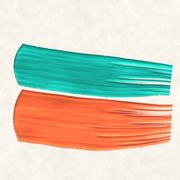
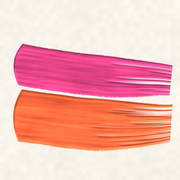
Switch the hero to the Painted-reference colourway
Gold #e8af1e, magenta #d6417e, orange #f2643c, tan #d6a374, burgundy
#7e2437 - the swatch mix from the reference, keeping the Algarve warmth
while the magenta and burgundy break the brown impression. Section marks,
the CTA-band watermark and the favicon regenerate from the same five, so
page and hero stay in family. Stroke geometry is unchanged; this is colour
only. 'reference' is now the generator's default, so a bare run reproduces
what ships.

The veil over the hero text needed reworking for it. This palette is darker
than the previous one - magenta and burgundy against a light canvas - and
the old percentage-based stops failed the script tagline at 1025px (2.69:1).
Percentage stops cannot serve both ends of the range: the hero text column
is a fixed 780px, so a veil that clears the strokes at 1920px still sits
under the text at 1025px where that column fills 76% of the screen. Plain px
stops measured from the viewport edge then failed the opposite way on
ultra-wide, because the column is centred inside a 1180px max-width
container rather than pinned left.

The stops are now anchored to the container's own left edge via
--hero-veil-left: max(24px, calc(50% - 590px)), so the veil tracks the text
wherever it actually is, and it is tuned to hug the column and clear within
~180px of it rather than smothering the strokes - the first attempt at this
measured 11:1 everywhere but washed the paint out, which defeats the point.
[…]

Changed region(s): [[0.0556, 0.2222, 0.9722, 0.5556]]

diff --git a/public/assets/css/main.css b/public/assets/css/main.css
@@ -4140,13 +4140,23 @@ a.card:hover { box-shadow: 0 14px 34px rgba(15, 50, 56, 0.12); }
 .page-lagos-rs .hero-stack--split .hero-stack-media::before,
 .page-home .hero-stack--split .hero-stack-media::after,
 .page-lagos-rs .hero-stack--split .hero-stack-media::after {
+  /* Stops are anchored to the text column, not to the viewport. A
+     percentage veil that clears the text at 1920px still sits under it at
+     1025px, where the same fixed-width column fills 76% of the screen; and
+     plain px stops measured from the viewport's left edge drift out from
+     under the text on ultra-wide, because the column is centred inside a
+     1180px max-width container rather than pinned left. --hero-veil-left
+     resolves to that container's own left edge at every width (the
+     max() picks up the gutter below 1180px + padding), so the veil tracks
+     the text wherever it actually is. */
+  --hero-veil-left: max(24px, calc(50% - 590px));
   background: linear-gradient(100deg,
-    rgba(248, 243, 234, 0.97) 0%,
-    rgba(248, 243, 234, 0.95) 34%,
-    rgba(248, 243, 234, 0.78) 47%,
-    rgba(248, 243, 234, 0.30) 59%,
-    rgba(248, 243, 234, 0.05) 70%,
-    rgba(248, 243, 234, 0) 80%) !important;
+    rgba(248, 243, 234, 0.97) 0px,
+    rgba(248, 243, 234, 0.95) calc(var(--hero-veil-left) + 560px),
+    rgba(248, 243, 234, 0.86) calc(var(--hero-veil-left) + 760px),
+    rgba(248, 243, 234, 0.35) calc(var(--hero-veil-left) + 880px),
+    rgba(248, 243, 234, 0.05) calc(var(--hero-veil-left) + 980px),
+    rgba(248, 243, 234, 0) calc(var(--hero-veil-left) + 1060px)) !important;
 }
 @media (max-width: 1024px) {
   /* Mobile and tablet stack text above the strokes, so the veil runs

diff --git a/src/assets/css/main.css b/src/assets/css/main.css
@@ -4140,13 +4140,23 @@ a.card:hover { box-shadow: 0 14px 34px rgba(15, 50, 56, 0.12); }
 .page-lagos-rs .hero-stack--split .hero-stack-media::before,
 .page-home .hero-stack--split .hero-stack-media::after,
 .page-lagos-rs .hero-stack--split .hero-stack-media::after {
+  /* Stops are anchored to the text column, not to the viewport. A
+     percentage veil that clears the text at 1920px still sits under it at
+     1025px, where the same fixed-width column fills 76% of the screen; and
+     plain px stops measured from the viewport's left edge drift out from
+     under the text on ultra-wide, because the column is centred inside a
+     1180px max-width container rather than pinned left. --hero-veil-left
+     resolves to that container's own left edge at every width (the
+     max() picks up the gutter below 1180px + padding), so the veil tracks
+     the text wherever it actually is. */
+  --hero-veil-left: max(24px, calc(50% - 590px));
   background: linear-gradient(100deg,
-    rgba(248, 243, 234, 0.97) 0%,
-    rgba(248, 243, 234, 0.95) 34%,
-    rgba(248, 243, 234, 0.78) 47%,
-    rgba(248, 243, 234, 0.30) 59%,
-    rgba(248, 243, 234, 0.05) 70%,
-    rgba(248, 243, 234, 0) 80%) !important;
+    rgba(248, 243, 234, 0.97) 0px,
+    rgba(248, 243, 234, 0.95) calc(var(--hero-veil-left) + 560px),
+    rgba(248, 243, 234, 0.86) calc(var(--hero-veil-left) + 760px),
+    rgba(248, 243, 234, 0.35) calc(var(--hero-veil-left) + 880px),
+    rgba(248, 243, 234, 0.05) calc(var(--hero-veil-left) + 980px),
+    rgba(248, 243, 234, 0) calc(var(--hero-veil-left) + 1060px)) !important;
 }
 @media (max-width: 1024px) {
   /* Mobile and tablet stack text above the strokes, so the veil runs

diff --git a/tools/paint/generate.py b/tools/paint/generate.py
@@ -13,7 +13,10 @@ third-party licence. See tools/paint/brush.py for the stroke engine.
 To change the hero colourway, pass a palette name (see PALETTES below) or add
 a new entry — geometry stays fixed, so a swap is colour-only:
 
-    python3 tools/paint/generate.py reference
+    python3 tools/paint/generate.py studio
+
+'reference' is the colourway the site ships; it is the default here so a bare
+run reproduces exactly what is committed.
 """
 import sys, os
 sys.path.insert(0, os.path.dirname(os.path.abspath(__file__)))
@@ -62,7 +65,7 @@ def save(im, path, q=86):
     im.save(path + '.jpg', quality=q, optimize=True, progressive=True)
     im.save(path + '.webp', quality=82, method=6)
 
-def main(name='studio'):
+def main(name='reference'):
     if name not in PALETTES:
         sys.exit('unknown palette %r; choose from %s' % (name, ', '.join(PALETTES)))
     cols = PALETTES[name]
@@ -100,4 +103,4 @@ def main(name='studio'):
     print('favicon')
 
 if __name__ == '__main__':
-    main(sys.argv[1] if len(sys.argv) > 1 else 'studio')
+    main(sys.argv[1] if len(sys.argv) > 1 else 'reference')

diff --git a/README.md b/README.md
@@ -66,7 +66,7 @@ The `/public` folder is a complete static site — point any static host at it:
 **v4 "paint-craft"** — warm, tactile and pigment-led, replacing the navy/crimson palette inherited from the sister site. Structure, layout, grid, components, breakpoints and the measured hero budgets are unchanged; this is a visual restyle, not a rebuild.
 
 - **Page palette** — terracotta `#c25a38` (the accent; `#b85132` wherever it sits behind text, so button labels clear WCAG AA), ochre `#d9a02b`, dusty pink `#d9a08c`, deep brown `#3a241a` for text and dark surfaces, cream `#fbf4e8` as the ground.
-- **Hero palette** — deliberately wider than the page palette, on a warm off-white canvas `#f8f3ea`: mustard `#e9b01f`, turquoise `#17a698`, coral `#f2643c`, dusty pink `#e28a84`, deep navy `#22303f`. Two alternates (`reference`, `pop`) ship in the generator; switching is one command and colour-only. Set as token *values* at the top of `src/assets/css/main.css`; the token *names* are unchanged so the component CSS between them keeps resolving.
+- **Hero palette** — deliberately wider than the page palette, on a warm off-white canvas `#f8f3ea`: gold `#e8af1e`, magenta `#d6417e`, orange `#f2643c`, tan `#d6a374`, burgundy `#7e2437`. Two alternates (`studio`, `pop`) ship in the generator; switching is one command and colour-only. Set as token *values* at the top of `src/assets/css/main.css`; the token *names* are unchanged so the component CSS between them keeps resolving.
 - **Type** — Fredoka (rounded display) for headlines, wordmark, buttons and labels; Nunito Sans for running text; Caveat (brush script) reserved for the wordmark's "Painter" and the hero tagline, so it reads as a signature rather than decoration. All three are self-hosted variable fonts in `src/assets/fonts` — no Google Fonts request, no third-party dependency.
 - **Wordmark** — "Algarve" in the display face, "Painter" in the script with a tapered brushstroke swiped underneath (the SVG lives in `wordmarkHtml` in `layout.js`).
 - **Everything the token swap can't express** lives in one clearly-marked `PAINT-CRAFT RESTYLE` block at the very end of `main.css` — type roles, the painted section marks, the wordmark, the trust band and the button fills. It sits last because much of the inherited stylesheet carries `!important` at high specificity.
@@ -83,8 +83,8 @@ There is **no photography of real work yet**. The hero and the section marks are
 **The generator is in the repo**, at `tools/paint/`:
 
 ```
-python3 tools/paint/generate.py            # studio (default)
-python3 tools/paint/generate.py reference  # or: pop
+python3 tools/paint/generate.py reference  # the shipped colourway
+python3 tools/paint/generate.py studio     # or: pop
 ```
 
 `brush.py` is the stroke engine — each stroke is built from individual bristle lanes, each with its own paint load and drop-out point, which is what produces the dry-brush skips, splayed tails and irregular edges. `generate.py` holds the palettes and the fixed stroke geometry, so a palette swap changes colour only. It needs Pillow and NumPy; neither is a runtime dependency of the site. Nothing is downloaded — every pixel is procedural, so the generated assets carry no third-party licence. Every service is listed in `SERVICE_MINIMAL_IMAGES_SLUGS`, which drops the media column from the "Real-World Scenarios" and "In Detail" sections rather than filling them with placeholder boxes. The build renders **zero** visible `[Placeholder: …]` boxes.
